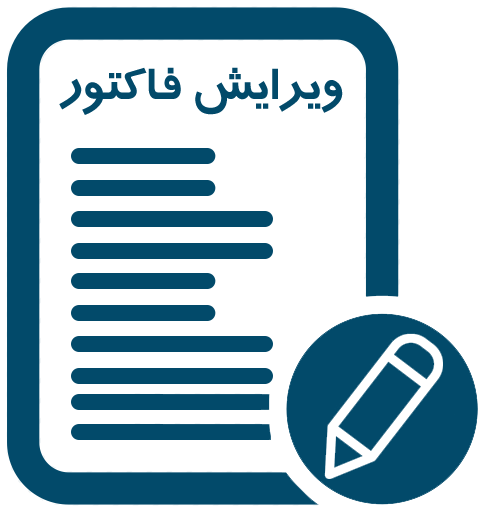
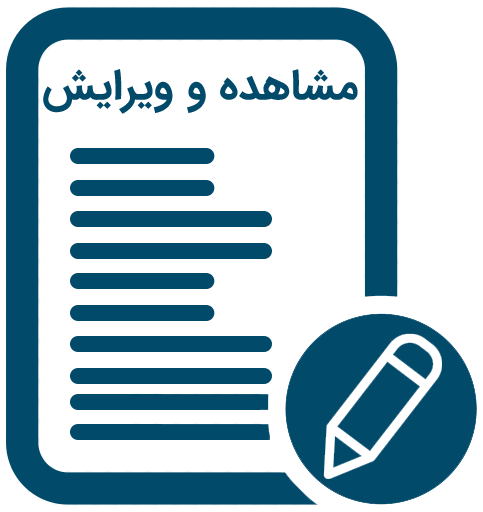
Edit Page was modified

diff --git a/Sandoghche/EditPage.xaml b/Sandoghche/EditPage.xaml
@@ -108,31 +108,27 @@
                             ShowTimePicker="False"
                             VerticalOptions="Center"
                             WidthRequest="150"
+                            AutoClose="True"
                             />
                         <syncfusion:SfNumericTextBox VerticalOptions="Center" x:Name="srchReceiptNumber"  MaximumNumberDecimalDigits="0"  Grid.Column="2" FontFamily="IRANSansMobile(FaNum).ttf#IRANSansMobile(FaNum)" TextColor="Black"/>
                         <Label Text="یا شماره فیش" Grid.Column="3" VerticalOptions="Center" FontFamily = "IRANSansMobile(FaNum).ttf#IRANSansMobile(FaNum)" />
 
-                      
-                            
+
+
                         <syncfusion:SfNumericTextBox VerticalOptions="Center"  MaximumNumberDecimalDigits="0"  x:Name="srchOrderId" Grid.Column="4" FontFamily="IRANSansMobile(FaNum).ttf#IRANSansMobile(FaNum)" TextColor="Black"/>
                         <Label Text="شماره فاکتور" Grid.Column="5" VerticalOptions="Center" FontFamily = "IRANSansMobile(FaNum).ttf#IRANSansMobile(FaNum)"/>
-                       
+
                     </Grid>
                 </Frame>
 
                 <!--نمایش فاکتورها-->
                 <Frame Grid.Row="1" Margin="5" BorderColor="Black"  >
 
-
+                    <!--چاپ مجدد-->
                     <telerikDataGrid:RadDataGrid x:Name="OrdersDataGrid"  UserFilterMode="Disabled" UserGroupMode="Disabled"  UserSortMode="Single" UserEditMode="None" AutoGenerateColumns="False"   >
-
-                       
-
-
-
                         <telerikDataGrid:RadDataGrid.Columns>
 
-                            <!--Mines-->
+                           
                             <telerikDataGrid:DataGridTemplateColumn  CanUserEdit="False" CanUserFilter="False" CanUserGroup="False" CanUserSort="False">
 
                                 <telerikDataGrid:DataGridTemplateColumn.HeaderStyle>
@@ -144,7 +140,36 @@
 
                                 <telerikDataGrid:DataGridTemplateColumn.CellContentTemplate>
                                     <DataTemplate>
-                                        <!--<ImageButton x:Name="btnMines"  WidthRequest="20" HeightRequest="20" Margin="5" Clicked="btnMines_Clicked"  Source="{local:EmbeddedImage Sandoghche.Images.Mines.png}" />-->
+                                        <Button
+                                    HorizontalOptions="FillAndExpand"
+                                    VerticalOptions="Center"
+                                    HeightRequest="40"
+                                    x:Name="btnPrint"
+                                    FontSize="Small"
+                                    CornerRadius="5"
+                                    Text="چاپ" 
+                                    BackgroundColor="#0078D7"
+                                    FontFamily = "IRANSansMobile(FaNum).ttf#IRANSansMobile(FaNum)"
+                                    Clicked="btnPrint_Clicked"
+                                    IsVisible="True" Margin="5"
+                                    />
+                                    </DataTemplate>
+                                </telerikDataGrid:DataGridTemplateColumn.CellContentTemplate>
+                            </telerikDataGrid:DataGridTemplateColumn>
+
+
+                            <!--ویراش-->
+                            <telerikDataGrid:DataGridTemplateColumn  CanUserEdit="False" CanUserFilter="False" CanUserGroup="False" CanUserSort="False">
+
+                                <telerikDataGrid:DataGridTemplateColumn.HeaderStyle>
+                                    <telerikDataGrid:DataGridColumnHeaderStyle OptionsButtonTextColor="Transparent"
+                                                    OptionsButtonFontSize="0"
+                                                    BorderColor="#D9D9D9"
+                                                    BorderThickness="1" />
+                                </telerikDataGrid:DataGridTemplateColumn.HeaderStyle>
+
+                                <telerikDataGrid:DataGridTemplateColumn.CellContentTemplate>
+                                    <DataTemplate>
                                         <Button
                                     HorizontalOptions="FillAndExpand"
                                     VerticalOptions="Center"
@@ -152,7 +177,7 @@
                                     x:Name="btnEdit"
                                     FontSize="Small"
                                     CornerRadius="5"
-                                    Text="ویرایش" 
+                                    Text="مشاهده یا ویرایش" 
                                     BackgroundColor="#00c695"
                                     FontFamily = "IRANSansMobile(FaNum).ttf#IRANSansMobile(FaNum)"
                                     Clicked="btnEdit_Clicked"
@@ -162,31 +187,24 @@
                                 </telerikDataGrid:DataGridTemplateColumn.CellContentTemplate>
                             </telerikDataGrid:DataGridTemplateColumn>
 
-                            <!--plus-->
-                            <!--<telerikDataGrid:DataGridTemplateColumn  CanUserEdit="False" CanUserFilter="False" CanUserGroup="False" CanUserSort="False">
 
-                                <telerikDataGrid:DataGridTemplateColumn.HeaderStyle>
-                                    <telerikDataGrid:DataGridColumnHeaderStyle OptionsButtonTextColor="Transparent"
-                                                    OptionsButtonFontSize="0"
-                                                    BorderColor="#D9D9D9"
-                                                    BorderThickness="1" />
-                                </telerikDataGrid:DataGridTemplateColumn.HeaderStyle>
-
-                                <telerikDataGrid:DataGridTemplateColumn.CellContentTemplate>
-                                    <DataTemplate>
-                                        <ImageButton Margin="5" BackgroundColor="White"  WidthRequest="20" HeightRequest="20" x:Name="btnPlus" Clicked="btnPlus_Clicked"  Source="{local:EmbeddedImage Sandoghche.Images.Plus.png}" />
-
-                                    </DataTemplate>
-                                </telerikDataGrid:DataGridTemplateColumn.CellContentTemplate>
-                            </telerikDataGrid:DataGridTemplateColumn>-->
 
                             <!--مبلغ کل-->
-                            <telerikDataGrid:DataGridTemplateColumn  CanUserEdit="False" CanUserFilter="False" CanUserGroup="False" CanUserSort="False">
-
+                            <telerikDataGrid:DataGridTemplateColumn CanUserSort="True">
+                                <telerikDataGrid:DataGridTemplateColumn.SortDescriptor>
+                                    <telerikCommon:PropertySortDescriptor PropertyName="FinalPayment" />
+                                </telerikDataGrid:DataGridTemplateColumn.SortDescriptor>
                                 <telerikDataGrid:DataGridTemplateColumn.HeaderContentTemplate>
 
                                     <DataTemplate>
-                                        <Label FontSize="Small" TextColor="Black" Text="قیمت کل" VerticalOptions="Center" HorizontalOptions="Center"/>
+                                        <Label Margin="5"
+                                                FontFamily = "IRANSansMobile(FaNum).ttf#IRANSansMobile(FaNum)"
+                                                FontSize="Small" 
+                                                TextColor="Black" 
+                                                Text="قیمت کل" 
+                                                VerticalOptions="Center" 
+                                                HorizontalOptions="Center"
+                                                HeightRequest="30"/>
                                     </DataTemplate>
                                 </telerikDataGrid:DataGridTemplateColumn.HeaderContentTemplate>
 
@@ -200,21 +218,32 @@
                                 <telerikDataGrid:DataGridTemplateColumn.CellContentTemplate>
                                     <DataTemplate>
                                         <Label
-                                            VerticalOptions="Center"
+                                            VerticalOptions="Center"                                    
                                             TextColor="Black"
-                                            HorizontalOptions="Center"
-                                            FontFamily = "IRANSansMobile(FaNum).ttf#IRANSansMobile(FaNum)" 
+                                            FontFamily = "IRANSansMobile(FaNum).ttf#IRANSansMobile(FaNum)"
                                             FontSize="Small"
-                                            Text="{Binding FinalPayment}"/>
+                                            Text="{Binding FinalPayment}"
+                                            HorizontalOptions="Center"
+                                            Margin="0,0,10,0" />
                                     </DataTemplate>
                                 </telerikDataGrid:DataGridTemplateColumn.CellContentTemplate>
                             </telerikDataGrid:DataGridTemplateColumn>
 
                             <!--نام مشترک-->
-                            <telerikDataGrid:DataGridTemplateColumn  CanUserEdit="False" CanUserFilter="False" CanUserGroup="False" CanUserSort="False">
+                            <telerikDataGrid:DataGridTemplateColumn   CanUserSort="True">
+                                <telerikDataGrid:DataGridTemplateColumn.SortDescriptor>
+                                    <telerikCommon:PropertySortDescriptor PropertyName="ClientName" />
+                                </telerikDataGrid:DataGridTemplateColumn.SortDescriptor>
                                 <telerikDataGrid:DataGridTemplateColumn.HeaderContentTemplate>
                                     <DataTemplate>
-                                        <Label FontSize="Small" TextColor="Black" Text="نام مشترک" HorizontalOptions="End"  VerticalOptions="Center"    Margin="0,0,10,0" />
+                                       <Label Margin="5"
+                                                FontFamily = "IRANSansMobile(FaNum).ttf#IRANSansMobile(FaNum)"
+                                                FontSize="Small" 
+                                                TextColor="Black" 
+                                                Text="نام مشترک" 
+                                                VerticalOptions="Center" 
+                                                HorizontalOptions="Center"
+                                                HeightRequest="30"/> 
                                     </DataTemplate>
                                 </telerikDataGrid:DataGridTemplateColumn.HeaderContentTemplate>
                                 <telerikDataGrid:DataGridTemplateColumn.HeaderStyle>
@@ -227,24 +256,34 @@
 
                                 <telerikDataGrid:DataGridTemplateColumn.CellContentTemplate>
                                     <DataTemplate>
-                                        <Label VerticalOptions="Center"
-                                            HorizontalOptions="End"
+                                        <Label 
+                                            VerticalOptions="Center"                                    
                                             TextColor="Black"
-                                            Margin="0,0,10,0"
-                                            FontFamily = "IRANSansMobile(FaNum).ttf#IRANSansMobile(FaNum)" 
+                                            FontFamily = "IRANSansMobile(FaNum).ttf#IRANSansMobile(FaNum)"
                                             FontSize="Small"
-                                            Text="{Binding ClientName}"/>
+                                            Text="{Binding ClientName}"
+                                            HorizontalOptions="Center"
+                                            Margin="0,0,10,0" />
                                     </DataTemplate>
                                 </telerikDataGrid:DataGridTemplateColumn.CellContentTemplate>
                             </telerikDataGrid:DataGridTemplateColumn>
 
                             <!--شماره فاکتور-->
-                            <telerikDataGrid:DataGridTemplateColumn  CanUserEdit="False" CanUserFilter="False" CanUserGroup="False" CanUserSort="False" >
+                            <telerikDataGrid:DataGridTemplateColumn SizeMode="Auto"  CanUserSort="True" >
+                                <telerikDataGrid:DataGridTemplateColumn.SortDescriptor>
+                                    <telerikCommon:PropertySortDescriptor PropertyName="OrderId" />
+                                </telerikDataGrid:DataGridTemplateColumn.SortDescriptor>
                                 <telerikDataGrid:DataGridTemplateColumn.HeaderContentTemplate>
                                     <DataTemplate>
                                         <Label 
-                                             FontFamily = "IRANSansMobile(FaNum).ttf#IRANSansMobile(FaNum)" 
-                                            FontSize="Small" TextColor="Black" Text="شماره فاکتور" VerticalOptions="Center" HorizontalOptions="Center" />
+                                            Margin="5"
+                                                FontFamily = "IRANSansMobile(FaNum).ttf#IRANSansMobile(FaNum)"
+                                                FontSize="Small" 
+                                                TextColor="Black" 
+                                                Text="فاکتور" 
+                                                VerticalOptions="Center" 
+                                                HorizontalOptions="Center"
+                                                HeightRequest="30"/>
                                     </DataTemplate>
                                 </telerikDataGrid:DataGridTemplateColumn.HeaderContentTemplate>
                                 <telerikDataGrid:DataGridTemplateColumn.HeaderStyle>
@@ -257,24 +296,33 @@
                                     <DataTemplate>
 
                                         <Label 
-                                            VerticalOptions="Center"                                    
+                                             VerticalOptions="Center"                                    
                                             TextColor="Black"
                                             FontFamily = "IRANSansMobile(FaNum).ttf#IRANSansMobile(FaNum)"
                                             FontSize="Small"
                                             Text="{Binding OrderId}"
                                             HorizontalOptions="Center"
-                                            Margin="0,0,10,0"/>
+                                            Margin="0,0,10,0" />
                                     </DataTemplate>
                                 </telerikDataGrid:DataGridTemplateColumn.CellContentTemplate>
                             </telerikDataGrid:DataGridTemplateColumn>
 
                             <!--شماره فیش-->
-                            <telerikDataGrid:DataGridTemplateColumn  CanUserEdit="False" CanUserFilter="False" CanUserGroup="False" CanUserSort="True" >
+                            <telerikDataGrid:DataGridTemplateColumn  SizeMode="Auto" CanUserSort="True" >
+                                <telerikDataGrid:DataGridTemplateColumn.SortDescriptor>
+                                    <telerikCommon:PropertySortDescriptor PropertyName="ReceiptNumber" />
+                                </telerikDataGrid:DataGridTemplateColumn.SortDescriptor>
                                 <telerikDataGrid:DataGridTemplateColumn.HeaderContentTemplate>
                                     <DataTemplate>
                                         <Label 
-                                             FontFamily = "IRANSansMobile(FaNum).ttf#IRANSansMobile(FaNum)" 
-                                            FontSize="Small" TextColor="Black" Text="شماره فیش" VerticalOptions="Center" HorizontalOptions="Center" />
+                                            Margin="5"
+                                                FontFamily = "IRANSansMobile(FaNum).ttf#IRANSansMobile(FaNum)"
+                                                FontSize="Small" 
+                                                TextColor="Black" 
+                                                Text="فیش " 
+                                                VerticalOptions="Center" 
+                                                HorizontalOptions="Center"
+                                                HeightRequest="30" />
                                     </DataTemplate>
                                 </telerikDataGrid:DataGridTemplateColumn.HeaderContentTemplate>
                                 <telerikDataGrid:DataGridTemplateColumn.HeaderStyle>
@@ -293,7 +341,7 @@
                                             FontSize="Small"
                                             Text="{Binding ReceiptNumber}"
                                             HorizontalOptions="Center"
-                                            Margin="0,0,10,0"/>
+                                            Margin="0,0,10,0" />
                                     </DataTemplate>
                                 </telerikDataGrid:DataGridTemplateColumn.CellContentTemplate>
                             </telerikDataGrid:DataGridTemplateColumn>

diff --git a/Sandoghche/ReportPage.xaml b/Sandoghche/ReportPage.xaml
@@ -165,7 +165,7 @@
                                 <!--قیمت کل-->
                                 <telerikDataGrid:DataGridTemplateColumn   CanUserSort="True" >
                                     <telerikDataGrid:DataGridTemplateColumn.SortDescriptor>
-                                        <telerikCommon:PropertySortDescriptor PropertyName="Number" />
+                                        <telerikCommon:PropertySortDescriptor PropertyName="TotalPrice" />
                                     </telerikDataGrid:DataGridTemplateColumn.SortDescriptor>
                                     <telerikDataGrid:DataGridTemplateColumn.HeaderContentTemplate >
 

diff --git a/Sandoghche/EditPage.xaml.cs b/Sandoghche/EditPage.xaml.cs
@@ -20,7 +20,7 @@ namespace Sandoghche
         {
             InitializeComponent();
             // srchCreatedDate.SelectedDateTime = DateTime.Now;
-            
+
         }
 
         protected override async void OnAppearing()
@@ -32,7 +32,7 @@ namespace Sandoghche
         async private void btnSearch_Clicked(object sender, EventArgs e)
         {
 
-            if (srchCreatedDate.SelectedDateTime == null && (srchReceiptNumber.Value == null  || (srchReceiptNumber.Value !=null && Convert.ToInt32(srchReceiptNumber.Value) == 0)) &&  (srchOrderId.Value == null || (srchOrderId.Value != null && Convert.ToInt32(srchOrderId.Value) == 0)))
+            if (srchCreatedDate.SelectedDateTime == null && (srchReceiptNumber.Value == null || (srchReceiptNumber.Value != null && Convert.ToInt32(srchReceiptNumber.Value) == 0)) && (srchOrderId.Value == null || (srchOrderId.Value != null && Convert.ToInt32(srchOrderId.Value) == 0)))
                 await DisplayAlert("اخطار", "جهت جستجو ورود یکی از فیلد ها الزامی است", "باشه");
             else
                 await getOrders(srchCreatedDate.SelectedDateTime != null ? srchCreatedDate.SelectedDateTime.Value.Date : (DateTime?)null, srchOrderId.Value != null ? Convert.ToInt32(srchOrderId.Value) : 0, srchReceiptNumber.Value != null ? Convert.ToInt32(srchReceiptNumber.Value) : 0);
@@ -54,8 +54,15 @@ namespace Sandoghche
             OrdersDataGrid.ItemsSource = Orders;
         }
 
-
-       
+        async private void btnPrint_Clicked(object sender, EventArgs e)
+        {
+            var s = sender as Button;
+            var selectedItem = s.BindingContext;
+            var orderModel = (OrderDetailForSearchViewModel)selectedItem;
+            var order = await SandoghcheController.GetConnection().Table<Order>().FirstOrDefaultAsync(o => o.OrderId == orderModel.OrderId);
+            order.OrderDetails = await SandoghcheController.GetConnection().Table<OrderDetail>().Where(od => od.OrderId == orderModel.OrderId).ToListAsync();
+            DependencyService.Get<IPrint>().Print(order, "چاپ مجدد");
+        }
 
 
 
@@ -64,9 +71,9 @@ namespace Sandoghche
             var s = sender as Button;
             var selectedItem = s.BindingContext;
             var order = (OrderDetailForSearchViewModel)selectedItem;
-           // await DisplayAlert("test",order.OrderId.ToString(),"test");
+            // await DisplayAlert("test",order.OrderId.ToString(),"test");
             await Navigation.PushAsync(new EditOrderPage(order.OrderId));
-            
+
 
 
         }
